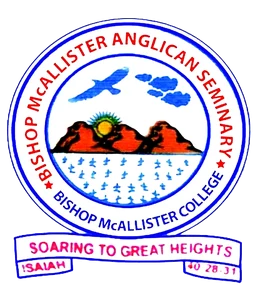
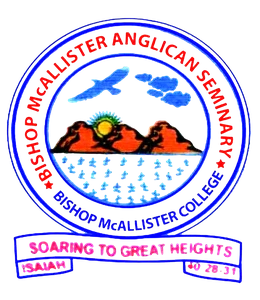
Transparent crest with cleaner edges and a soft glow behind it

Changed region(s): [[0.0, 0.06, 0.9846, 0.96], [0.2462, 0.24, 0.4615, 0.36], [0.7077, 0.45, 0.7385, 0.48]]

diff --git a/assets/css/style.css b/assets/css/style.css
@@ -279,12 +279,16 @@ p{margin:0 0 1em;color:var(--text-soft);max-width:65ch;}
 .hero-verse cite{display:block;margin-top:.5em;font-style:normal;font-size:.82rem;letter-spacing:.06em;text-transform:uppercase;color:var(--gold-500);}
 
 .hero-crest-wrap{position:relative; display:flex; justify-content:center;}
-.hero-crest-glow{
-  position:absolute; inset:-10%; border-radius:50%;
-  background:radial-gradient(circle, rgba(231,165,46,.28), transparent 65%);
-  filter:blur(6px);
+.hero-crest-glow{ /* soft light behind the crest so it lifts off the navy */
+  position:absolute; left:50%; top:50%; width:min(460px,92vw); aspect-ratio:1; transform:translate(-50%,-50%);
+  border-radius:50%;
+  background:
+    radial-gradient(circle, rgba(255,255,255,.42) 0%, rgba(190,215,255,.26) 30%, rgba(231,165,46,.14) 52%, transparent 70%);
+  filter:blur(10px);
+  animation:crestGlow 6s ease-in-out infinite;
 }
-.hero-crest{position:relative;width:min(340px,72vw);filter:drop-shadow(0 24px 40px rgba(0,0,0,.45));animation:float 7s ease-in-out infinite;}
+@keyframes crestGlow{0%,100%{opacity:.85;}50%{opacity:1;}}
+.hero-crest{position:relative;width:min(340px,72vw);filter:drop-shadow(0 0 30px rgba(150,190,255,.30)) drop-shadow(0 22px 34px rgba(0,0,0,.35));animation:float 7s ease-in-out infinite;}
 @keyframes float{0%,100%{transform:translateY(0);}50%{transform:translateY(-10px);}}
 
 .ridge{position:absolute; left:0; right:0; bottom:-1px; width:100%; height:auto; line-height:0;}
@@ -538,7 +542,7 @@ p{margin:0 0 1em;color:var(--text-soft);max-width:65ch;}
 @media (max-width:900px){.footer-grid{grid-template-columns:1fr 1fr;}}
 @media (max-width:560px){.footer-grid{grid-template-columns:1fr;}}
 .footer-brand{display:flex;gap:12px;align-items:center;margin-bottom:14px;}
-.footer-brand img{height:52px;width:auto;}
+.footer-brand img{height:52px;width:auto;filter:drop-shadow(0 0 8px rgba(255,255,255,.28));}
 .footer-brand strong{font-family:var(--font-display); color:#fff; font-size:1.15rem; display:block;}
 .footer-brand span{font-size:.78rem; letter-spacing:.08em; text-transform:uppercase; color:var(--gold-500);}
 .site-footer h4{color:#fff; font-family:var(--font-body); font-size:.85rem; letter-spacing:.06em; text-transform:uppercase; margin-bottom:1em;}
